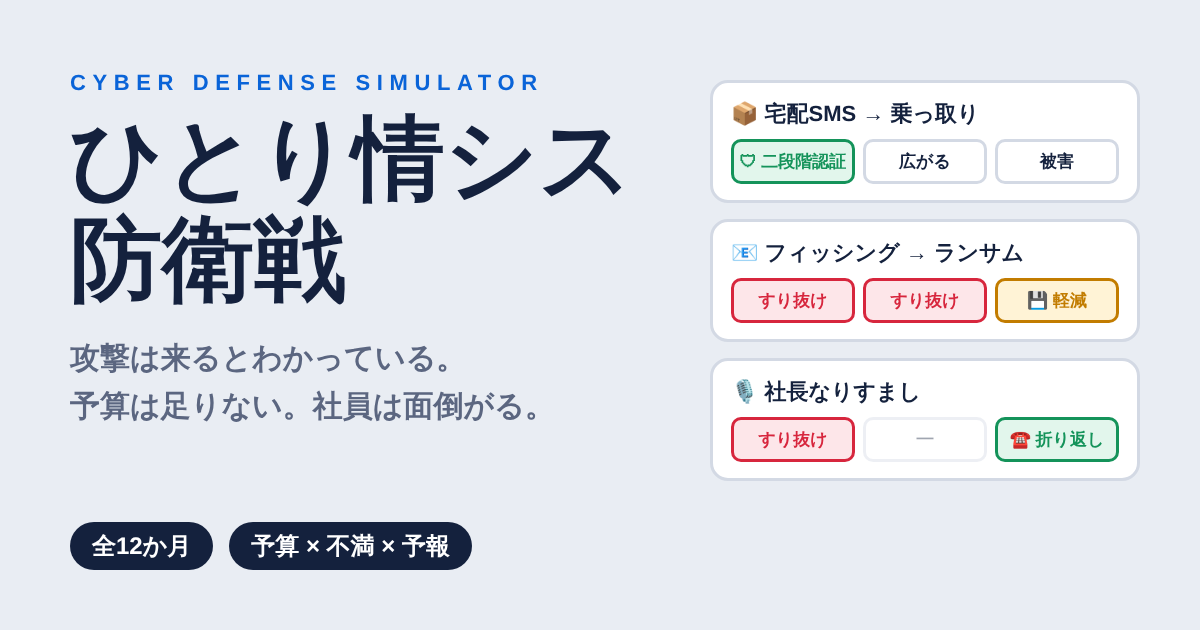
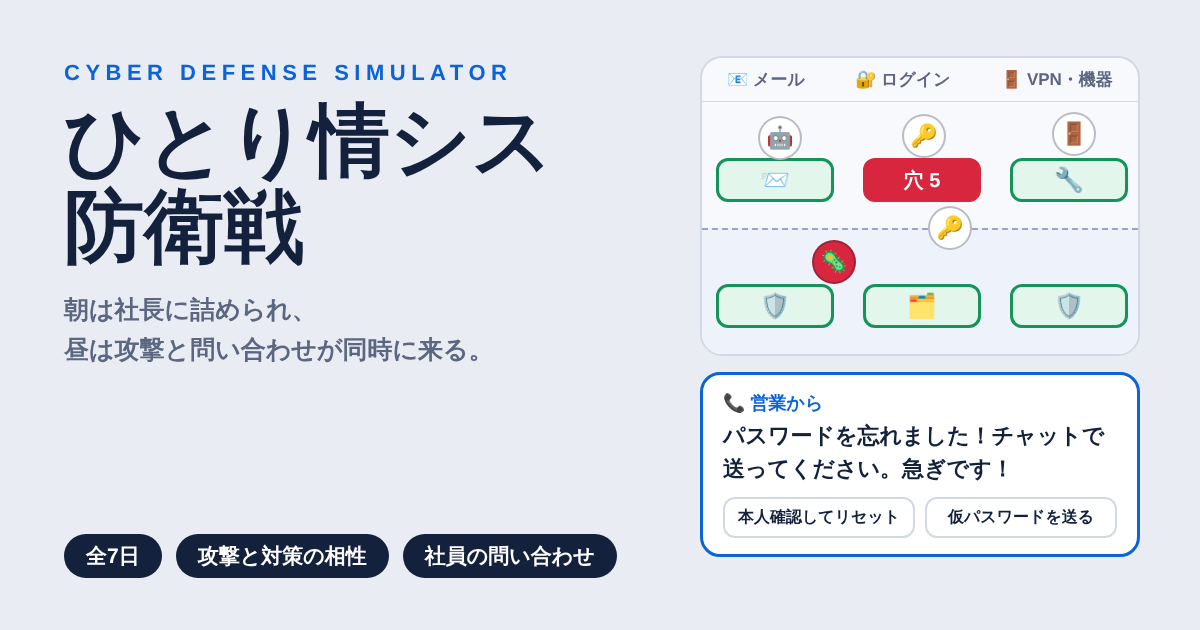
ひとり情シス防衛戦：問い合わせとイベントの整合性を見直し、OGP画像を作り直す
- 写り込み：ログインの穴につながるよう、共有アカウントのパスワードに
- PCの更新を後回し：VPNの穴ではなく、社内のPCの感染に
- 再起動の相談を、VPN機器の更新の相談に（止まる対策が機器の更新なので）
- 3つ目の入口を「VPN・機器」に（防犯カメラ・保守機器も含むため）
- 深夜のアラートを、夕方のイベントに合う帰り際のアラートに
- OGP画像を、今のゲーム内容（全7日・問い合わせ・穴）に合わせて作り直す

Claude-Session: https://claude.ai/code/session_011PfhdefYMAvqitqTiDS3EW

diff --git a/hitori-joshisu/index.html b/hitori-joshisu/index.html
@@ -306,7 +306,7 @@ const shuffle = a => { for (let i = a.length - 1; i > 0; i--) { const j = Math.f
 const LANES = [
   { x: 1 / 6, ic: "📧", n: "メール" },
   { x: .5,    ic: "🔐", n: "ログイン" },
-  { x: 5 / 6, ic: "🚪", n: "VPN" },
+  { x: 5 / 6, ic: "🚪", n: "VPN・機器" },
 ];
 const TOP = .11, ENTRY_Y = .3, BOUND = .5, INSIDE_Y = .74, GOAL = .95;
 
@@ -575,7 +575,7 @@ const CALLS = [
     long: "パスワードをメールに書いて送ると、途中の経路や受け手のメールボックスから漏れるおそれがあります。初期パスワードは別の経路で渡し、最初のログインで必ず変えてもらうのが基本です。" },
   { id: "shareid", who: "営業", q: "派遣さんに、私のIDとパスワードを貸して作業してもらってもいいですか？",
     good: "その人用のアカウントを作る", bad: "作業後にパスワードを変える", hit: { hole: 1 },
-    ok: "必要な範囲だけ見られる、専用のアカウントを作った。", ng: "作業の間に、派遣先のPCからIDが漏れていた。",
+    ok: "必要な範囲だけ見られる、専用のアカウントを作った。", ng: "作業の間に、派遣さんのPCからIDとパスワードが漏れていた。",
     long: "アカウントの貸し借りをすると、誰が何をしたのか記録から分からなくなり、パスワードを知る人も増えます。作業する人ごとにアカウントを作り、見られる範囲を絞るのが基本です。" },
   { id: "qr", who: "総務", q: "駐車場の精算機に貼ってあったQRコードを読んだら、会社のアカウントでログインしてと出ました。",
     good: "入力しない", bad: "スマホからなら入力していい", hit: { hole: 1 },
@@ -607,7 +607,7 @@ const CALLS = [
     long: "最初に決めた簡単なパスワードや、機器やサービスの初期パスワードのままだと、総当たりや既知のパスワードの一覧で簡単に破られます。大事なデータを置く場所ほど、二段階認証を付けておきます。" },
   { id: "sns", who: "広報", q: "新しいオフィスの写真をSNSに載せたいです。後ろにホワイトボードも写ってますが。",
     good: "写り込みを確認してから", bad: "社員の顔だけぼかして載せる", hit: { hole: 1 },
-    ok: "ホワイトボードにWi-Fiのパスワードが書いてあった。消してから載せた。", ng: "顔は隠したが、ホワイトボードのパスワードはそのまま写っていた。",
+    ok: "ホワイトボードに共有アカウントのパスワードが書いてあった。消してから載せた。", ng: "顔は隠したが、ホワイトボードの共有アカウントのパスワードはそのまま写っていた。",
     long: "社内の写真には、ホワイトボード、付箋、画面、社員証など、思わぬ情報が写り込みます。載せる前に拡大して確かめる習慣をつけましょう。" },
   /* ---- マルウェア ---- */
   { id: "zip", who: "経理", q: "取引先から「請求書.zip」が届きました。開いていいですか？",
@@ -643,8 +643,8 @@ const CALLS = [
     ok: "必要なときだけ一時的に付ける運用にした。", ng: "詳しい人でも、うっかり開いたマルウェアが管理者権限で動いた。",
     long: "管理者権限があると、マルウェアもその権限で動けてしまい、PCの守りを止めたり、深く居座ったりできます。普段は一般ユーザーで使い、必要なときだけ権限を付けるのが基本です（最小権限）。" },
   { id: "osupdate", who: "総務", q: "パソコンに「更新があります」と出ました。不具合が怖いので、1か月くらい様子を見てからでいいですか？",
-    good: "すぐ入れて", bad: "1か月様子を見てから入れる", hit: { hole: 2 },
-    ok: "更新を入れた。これで既知の弱点はふさがった。", ng: "その1か月の間に、ふさがるはずの弱点を突かれた。",
+    good: "すぐ入れて", bad: "1か月様子を見てから入れる", hit: { spawn: "mal" },
+    ok: "更新を入れた。これで既知の弱点はふさがった。", ng: "その1か月の間に、ふさがるはずの弱点を突かれ、PCが感染した。",
     long: "OSやソフトの正規の更新は、見つかった弱点をふさぐものです。怖がって入れないほうが危険です。ただし、ウェブページの中に出る「更新してください」は偽物のことがあるので、OSの設定画面から入れるのが確実です。" },
   { id: "camera", who: "総務", q: "防犯カメラを外から見られるようにしたいです。設定は買ったままでいいですよね？",
     good: "初期パスワードを変えて更新も", bad: "アドレスを誰にも教えなければいい", hit: { hole: 2 },
@@ -799,9 +799,9 @@ const CALLS = [
     ok: "ブックマークからなら、偽サイトに迷い込まない。", ng: "検索の広告枠に出ていた偽サイトに、IDを入れてしまった。",
     long: "銀行名で検索すると、広告枠に偽サイトが出ることがあります。一度確かめた正しいページをブックマークしておき、そこからログインするのが安全です。" },
   /* ---- 対策を止めてしまう ---- */
-  { id: "reboot", who: "設計", min: 3, q: "更新のための再起動、今日は忙しいので来週でいいですか？",
-    good: "昼休みに再起動して", bad: "金曜の夜にまとめて再起動", hit: { off: "patch" },
-    ok: "昼休みに更新が終わった。", ng: "金曜までの数日のすきが狙われた。",
+  { id: "reboot", who: "設計", min: 3, q: "VPN機器の更新で、数分つながらなくなるそうですね。今週は忙しいので、来週にしてもらえますか？",
+    good: "今夜のうちに更新する", bad: "金曜の夜にまとめてやる", hit: { off: "patch" },
+    ok: "夜のうちに、数分で更新が終わった。", ng: "金曜までの数日のすきに、弱点を突かれた。",
     long: "更新は「出たらすぐ」が基本です。弱点が公開されると、攻撃者はそれを突く方法をすぐに作り、まだ更新していない会社を探して回ります。忙しさで後回しにした数日のすきが狙われます。" },
   { id: "mfaoff", who: "営業", min: 2, q: "スマホを機種変したら二段階認証が使えなくなりました。いったん全部外してもらえますか？",
     good: "新しいスマホに移すのを手伝う", bad: "今日だけ外して、明日設定し直す", hit: { off: "mfa" },
@@ -902,10 +902,10 @@ const EV = [
     q: "経理「営業部が、勝手にファイル共有サービスを契約してたみたいです。情シスは知ってました？」",
     o: [["把握して、会社の管理下に置く（3万円）", () => { pay(3); return "設定を確かめ、二段階認証を付けた。知らないサービスは守れない。"; }],
         ["便利ならいいか", () => { xtra("acct", 1); return "そのサービスのパスワードは、使い回しだった。（明日、👤が社内に直接1体）"; }]] },
-  { id: "alert", min: 2, kick: "深夜のスマホ", title: "深夜のアラート",
-    q: "夜中の2時。スマホに「不審な通信を検知」の通知。眠い。",
-    o: [["起きて確認する", () => "不審な通信を遮断して、また眠った。翌朝、少し眠い。"],
-        ["朝になってから見る", () => { xtra("mal", 2); return "朝までに、社内のあちこちに広がっていた。（明日、🦠が社内に直接2体）"; }]] },
+  { id: "alert", min: 2, kick: "監視ソフト", title: "帰り際のアラート",
+    q: "帰ろうとしたら、スマホに「不審な通信を検知」の通知。今日はもう疲れた。",
+    o: [["席に戻って確認する", () => "不審な通信を遮断してから帰った。少し遅くなったが、広がる前に止められた。"],
+        ["明日の朝に見る", () => { xtra("mal", 2); return "朝までに、社内のあちこちに広がっていた。（明日、🦠が社内に直接2体）"; }]] },
   { id: "subsidy", min: 1, kick: "商工会", title: "IT導入の補助金",
     q: "「セキュリティ対策に使える補助金があります。書類は少し面倒ですが、申請しますか？」",
     o: [["申請する", () => { S.money += 12; return "面倒な書類を書き上げた。補助金が下りた。（お金 +12万円）"; }],
